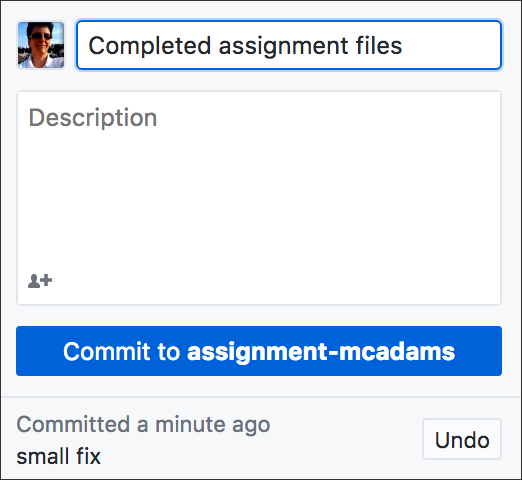
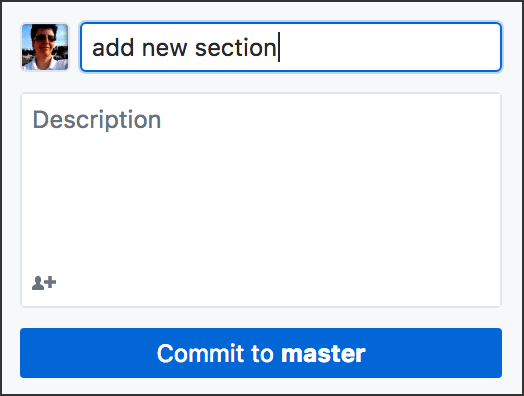
edits and update image

diff --git a/git_commit_and_sync/README.md b/git_commit_and_sync/README.md
@@ -18,13 +18,15 @@ You can view all commits in a project (shown below in the GitHub Desktop app) an
 
 <img src="../images/commit_messages.png" alt="GitHub Desktop commit messages" width=960>
 
+*Above: Open the History tab in the app to see a list of all your commits (left). Click any commit to see what you changed that time (right). Old is red, new is green.*
+
 ## How to commit
 
-A good commit message for this case would be: “Completed assignment files.”
+A good commit message might be: “Fixed broken links in all files,” or “Completed assignment.” Just indicate what your latest changes were.
 
-In the **Changes** area of the app, bottom left, type your commit message in the box that says “Summary.” You don’t need a description. Click the button that says “Commit to assignment-yourname.” **Note:** *assignment-yourname* is the name of your branch. If this says “Commit to master,” you have not been working in the correct branch!
+With the **Changes** tab in the app selected, at bottom left you’ll see where to type your commit message. Below that, you don’t need a description. Below the description box is the commit button, which usually says “Commit to master.” **Note:** *master* is the name of the branch you are in. You might have other branches besides *master* &mdash; if you don’t, don’t worry about it.
 
-<img src="../images/app-commit-field.png" alt="GitHub Desktop commit field" width=261>
+<img src="../images/app-commit-field.png" alt="GitHub Desktop commit field" width=262>
 
 **If you change anything** in your files after this, you will need to commit again. Same procedure, but you should write a different message, such as “fixed color error” — describe what you changed.
 
